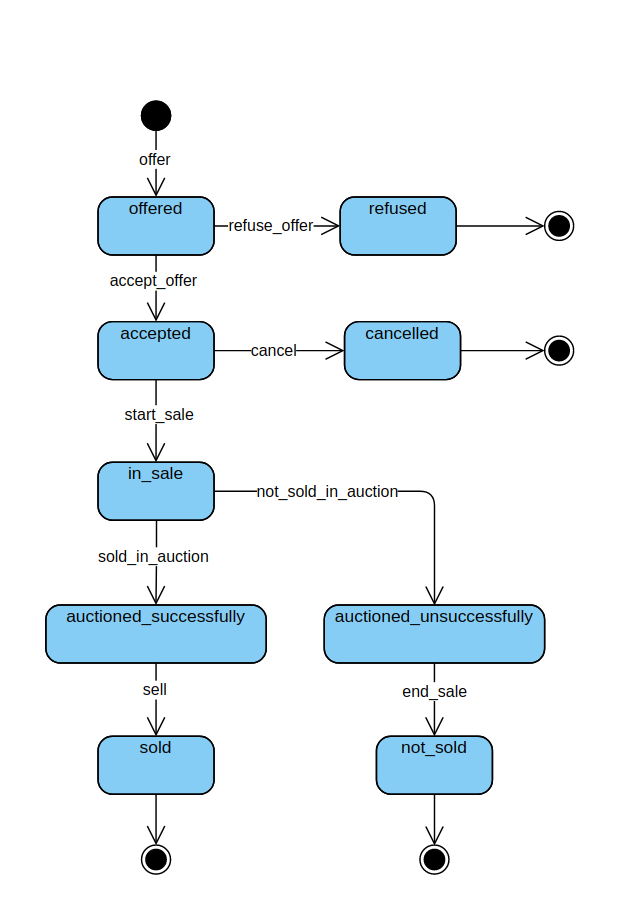
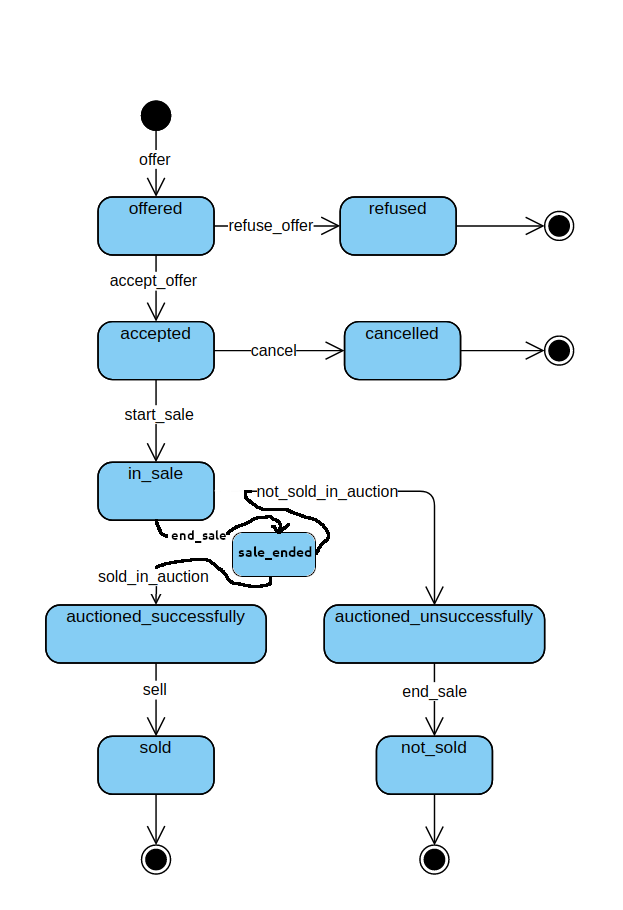
added supersimple bidding

Changed region(s): [[0.1525, 0.5231, 0.5185, 0.6462]]

diff --git a/app/models/auctify/sale/auction.rb b/app/models/auctify/sale/auction.rb
@@ -5,6 +5,8 @@ module Auctify
     class Auction < Auctify::Sale::Base
       include AASM
 
+      attr_accessor :winning_bid
+
       has_many :bidder_registrations, dependent: :destroy
 
       aasm do
@@ -12,6 +14,7 @@ module Auctify
         state :accepted, color: "red"
         state :refused, color: "dark"
         state :in_sale, color: "yellow"
+        state :bidding_ended, color: "yellow"
         state :auctioned_successfully, color: "green"
         state :auctioned_unsuccessfully, color: "red"
         state :sold, color: "green"
@@ -27,11 +30,20 @@ module Auctify
         end
 
         event :start_sale do
+          before do
+            self.current_price = self.offered_price
+          end
+
           transitions from: :accepted, to: :in_sale
         end
 
+        event :close_bidding do
+          transitions from: :in_sale, to: :bidding_ended
+        end
+
         event :sold_in_auction do
-          transitions from: :in_sale, to: :auctioned_successfully
+          transitions from: :bidding_ended, to: :auctioned_successfully
+
           after do |*args| # TODO: sold_at
             params = args.first # expecting keys :buyer, :price
             self.buyer = params[:buyer]
@@ -40,7 +52,7 @@ module Auctify
         end
 
         event :not_sold_in_auction do
-          transitions from: :in_sale, to: :auctioned_unsuccessfully
+          transitions from: :bidding_ended, to: :auctioned_unsuccessfully
         end
 
         event :sell do
@@ -59,6 +71,37 @@ module Auctify
       def bidders
         @bidders ||= bidder_registrations.collect { |br| br.bidder }.sort_by(&:name)
       end
+
+      def current_minimal_bid
+        current_price + (current_price == offered_price ? 0 : 1)
+      end
+
+      def bid!(bidder:, price:, maximal_price: nil)
+        ActiveRecord::Base.transaction do
+          if approved_bid?(bidder: bidder, price: price)
+            add_bid(bidder: bidder, price: price)
+          else
+            OpenStruct.new(errors: ["too late"])
+          end
+        end
+      end
+
+      private
+        def approved_bid?(bidder:, price:)
+          return false if price <= current_price
+          return false if winning_bid.present? && (winning_bid.bidder == bidder)
+          return false unless in_sale?
+
+
+          true
+        end
+
+        def add_bid(bidder: bidder, price: price)
+          self.current_price = price if price > current_price
+          save!
+
+          self.winning_bid = OpenStruct.new(bidder: bidder, price: price, at: Time.current)
+        end
     end
   end
 end

diff --git a/test/models/auctify/sale/auction_bidding_test.rb b/test/models/auctify/sale/auction_bidding_test.rb
@@ -5,20 +5,57 @@ require "test_helper"
 module Auctify
   module Sale
     class AuctionBiddingTest < ActiveSupport::TestCase
-      attr_reader :auction
+      attr_reader :auction, :adam, :lucifer
 
       setup do
         @auction = auctify_sales(:eve_apple)
         @auction.accept_offer
-        @auction.start_sale
-
         assert @auction.valid?, "auction is not valid! : #{@auction.errors.full_messages}"
 
-        # bidders
+        @lucifer = users(:lucifer)
+        @adam = users(:adam)
+        assert_equal [@adam, @lucifer], @auction.bidders
       end
 
       test "can process bids" do
-        skip
+        auction.offered_price = 1_000
+        assert_nil auction.current_price
+
+        auction.start_sale
+        auction.save! # just for sure
+
+        assert_equal 1_000, auction.reload.current_price
+        assert_equal auction.current_price, auction.current_minimal_bid
+
+        auction.bid!(bidder: lucifer, price: 1_001)
+
+        assert_equal 1_001, auction.current_price
+        assert_equal 1_002, auction.current_minimal_bid
+
+        auction.bid!(bidder: lucifer, price: 1_002)
+
+        assert_equal 1_001, auction.current_price # You cannot overbid Yourself
+        assert_equal 1_002, auction.current_minimal_bid
+
+        auction.bid!(bidder: adam, price: 1_002)
+
+        assert_equal 1_002, auction.reload.current_price
+        assert_equal 1_003, auction.current_minimal_bid
+
+        auction.close_bidding
+
+        assert_equal 1_000, auction.offered_price
+        assert_equal 1_002, auction.current_price
+        assert_nil auction.sold_price
+
+        bid = auction.bid!(bidder: lucifer, price: 10_000)
+        assert_equal ["too late"], bid.errors
+
+        auction.sold_in_auction(buyer: auction.winning_bid.bidder, price: auction.winning_bid.price)
+        auction.save!
+
+        assert_equal 1_002, auction.reload.sold_price
+        assert_equal adam, auction.buyer
       end
     end
   end

diff --git a/test/models/auctify/sale/auction_states_test.rb b/test/models/auctify/sale/auction_states_test.rb
@@ -8,7 +8,7 @@ module Auctify
       attr_reader :auction
 
       setup do
-        @auction = Auctify::Sale::Auction.new(seller: users(:eve), item: things(:apple))
+        @auction = Auctify::Sale::Auction.new(seller: users(:eve), item: things(:apple), offered_price: 123.4)
 
         assert @auction.valid?, "auction is not valid! : #{@auction.errors.full_messages}"
       end
@@ -54,6 +54,10 @@ module Auctify
 
         assert auction.in_sale?
 
+        auction.close_bidding
+
+        assert auction.bidding_ended?
+
         auction.sold_in_auction(buyer: users(:adam), price: 1_234)
 
         assert_raises(AASM::InvalidTransition) do
@@ -68,9 +72,18 @@ module Auctify
 
         assert auction.accepted?
 
+        offered_price = auction.offered_price
+        assert_nil auction.current_price
+
         auction.start_sale
 
         assert auction.in_sale?
+        assert_equal offered_price, auction.offered_price
+        assert_equal offered_price, auction.current_price
+
+        auction.close_bidding
+
+        assert auction.bidding_ended?
 
         auction.sold_in_auction(buyer: users(:adam), price: 1_234)
 
@@ -91,6 +104,10 @@ module Auctify
         auction.start_sale
 
         assert auction.in_sale?
+
+        auction.close_bidding
+
+        assert auction.bidding_ended?
 
         auction.not_sold_in_auction
 

diff --git a/test/dummy/db/schema.rb b/test/dummy/db/schema.rb
@@ -36,10 +36,11 @@ ActiveRecord::Schema.define(version: 2021_02_23_090240) do
     t.datetime "updated_at", precision: 6, null: false
     t.string "type", default: "Auctify::Sale::Base"
     t.string "aasm_state", default: "offered", null: false
-    t.decimal "offered_price"
     t.decimal "selling_price"
-    t.decimal "sold_price"
     t.datetime "published_at"
+    t.decimal "offered_price"
+    t.decimal "current_price"
+    t.decimal "sold_price"
     t.index ["buyer_type", "buyer_id"], name: "index_auctify_sales_on_buyer_type_and_buyer_id"
     t.index ["item_type", "item_id"], name: "index_auctify_sales_on_item_type_and_item_id"
     t.index ["seller_type", "seller_id"], name: "index_auctify_sales_on_seller_type_and_seller_id"

diff --git a/test/fixtures/fixtures_consistency_test.rb b/test/fixtures/fixtures_consistency_test.rb
@@ -6,7 +6,7 @@ class FixturesConsistencyTest < ActiveSupport::TestCase
   test "counts" do
     assert_equal %w[Lucifer Eve Adam].sort, User.pluck("name").sort
     assert_equal ["Apple", "Innocence", "Fig leave", "Snake (without apple)", "Flaming sword"].sort,
-Thing.pluck("name").sort
+                 Thing.pluck("name").sort
     assert_equal 5, Auctify::Sale::Base.count # details bellow
     assert_equal 2, Auctify::BidderRegistration.count
   end

diff --git a/db/migrate/20210217110819_add_prices_to_auctify_sales.rb b/db/migrate/20210217110819_add_prices_to_auctify_sales.rb
@@ -3,7 +3,7 @@
 class AddPricesToAuctifySales < ActiveRecord::Migration[6.0]
   def change
     add_column :auctify_sales, :offered_price, :decimal
-    add_column :auctify_sales, :selling_price, :decimal
+    add_column :auctify_sales, :current_price, :decimal
     add_column :auctify_sales, :sold_price, :decimal
   end
 end
